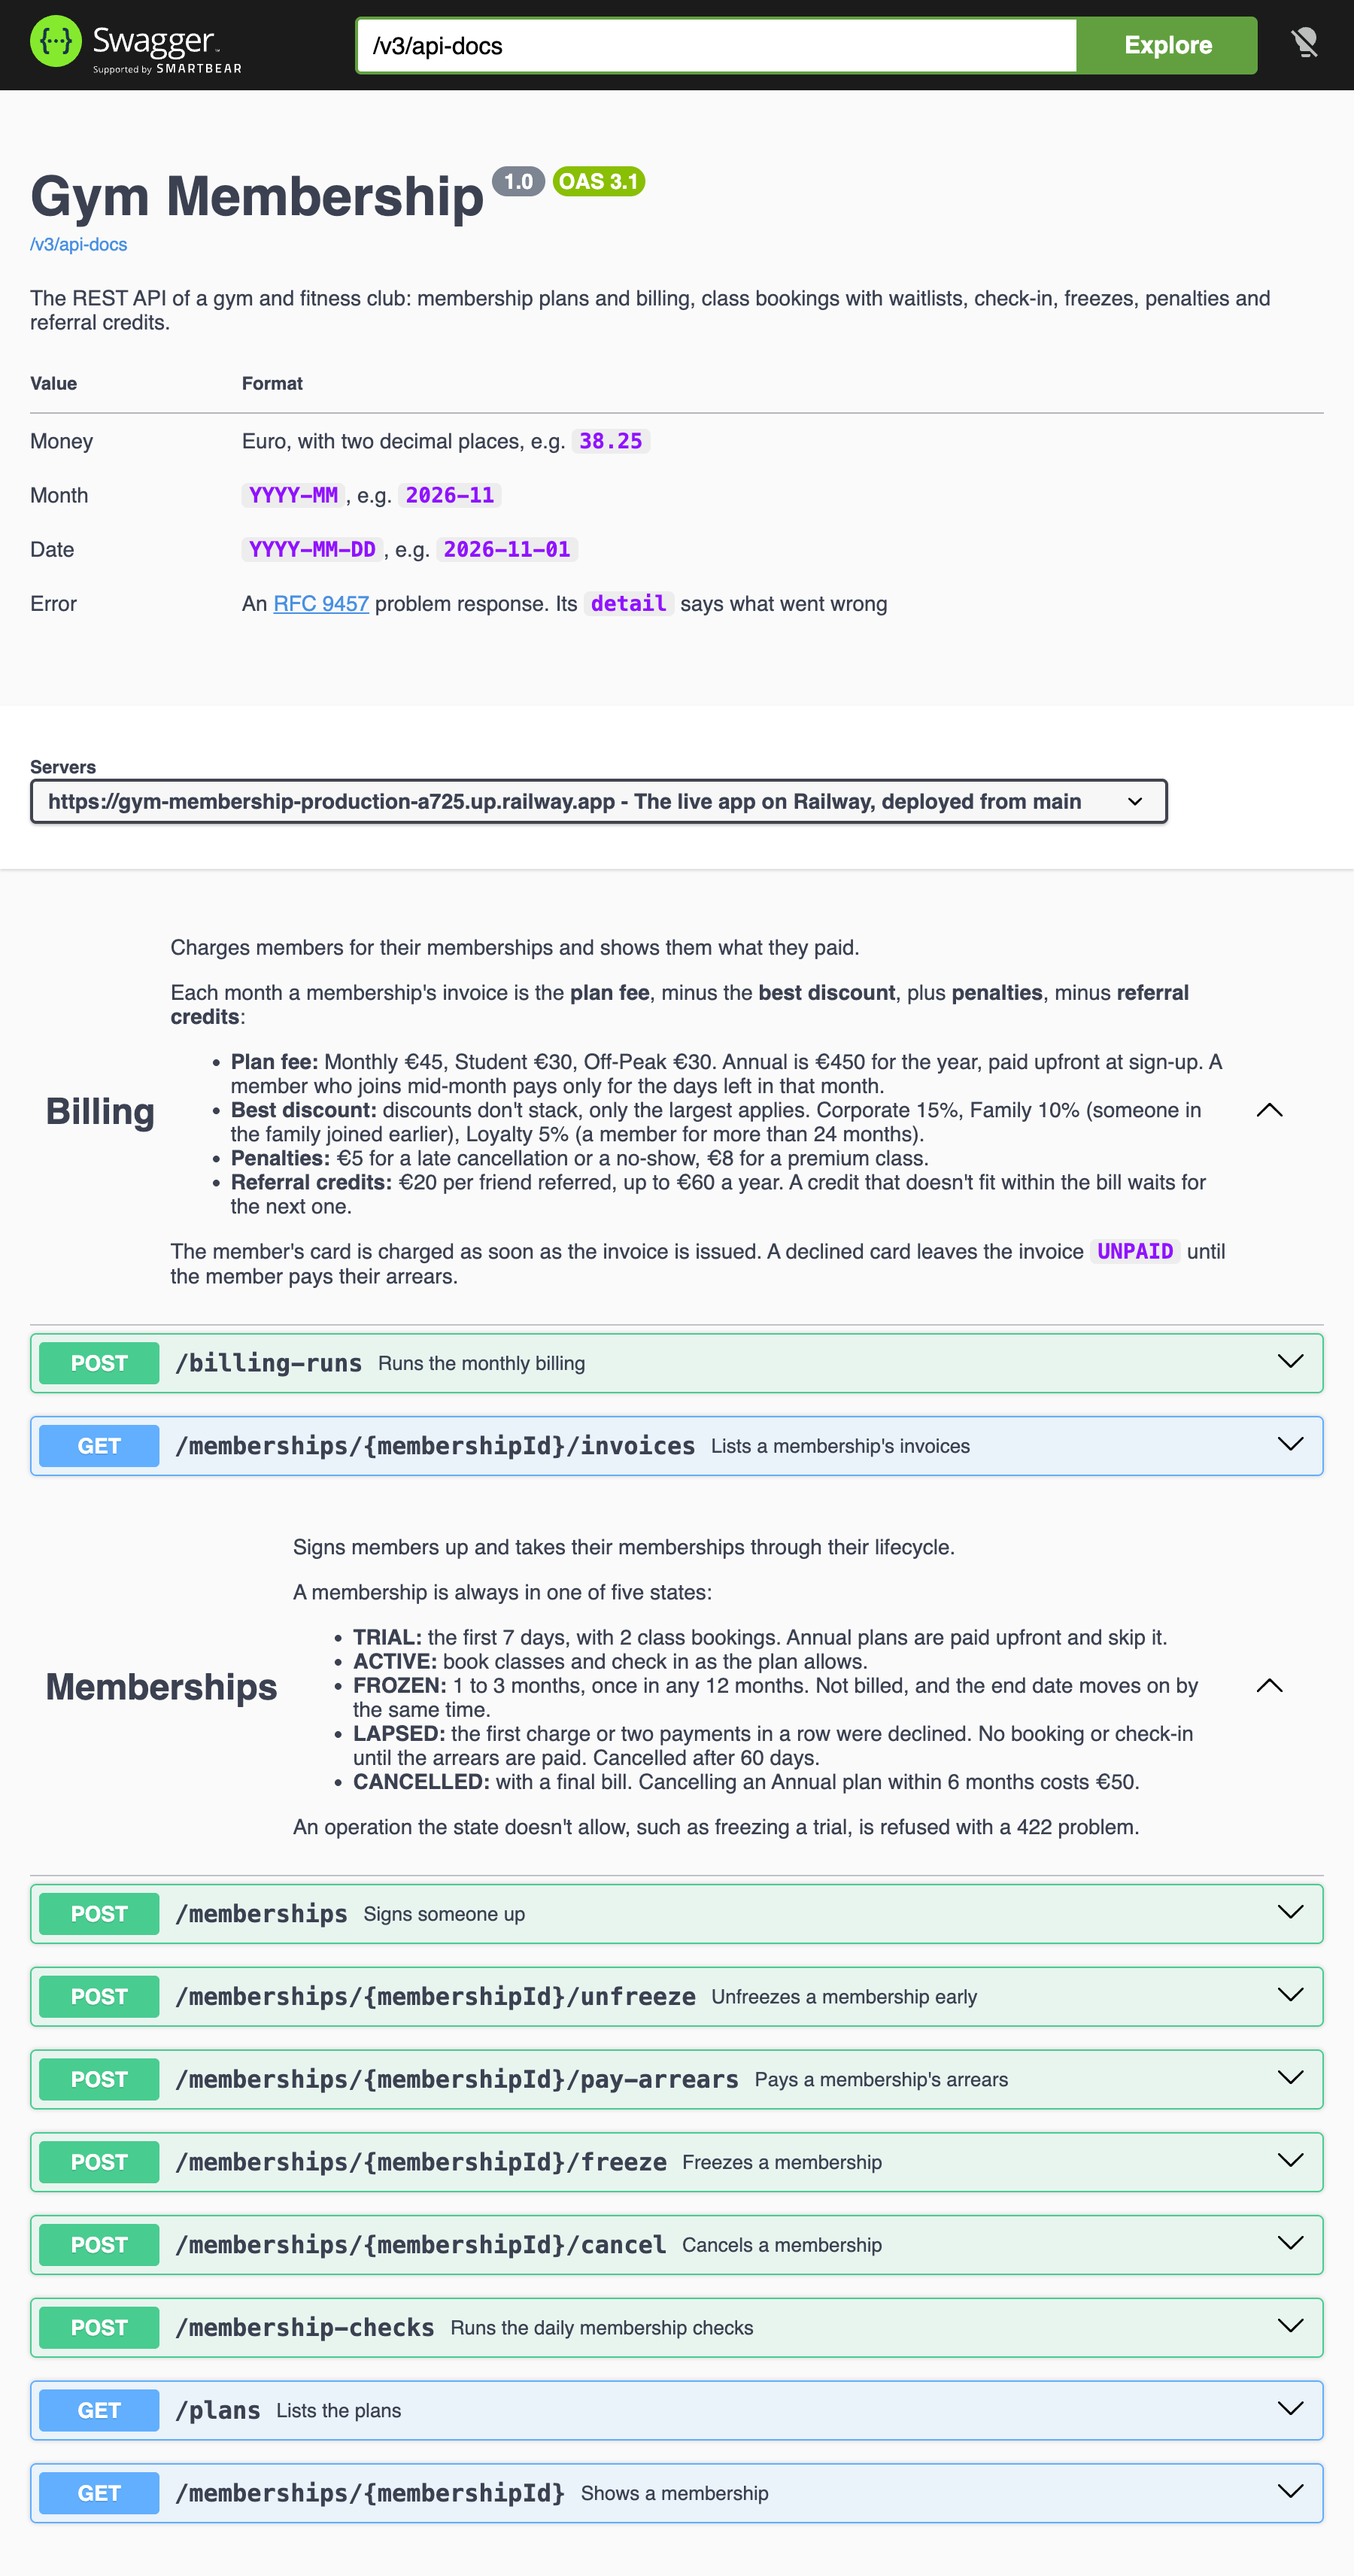
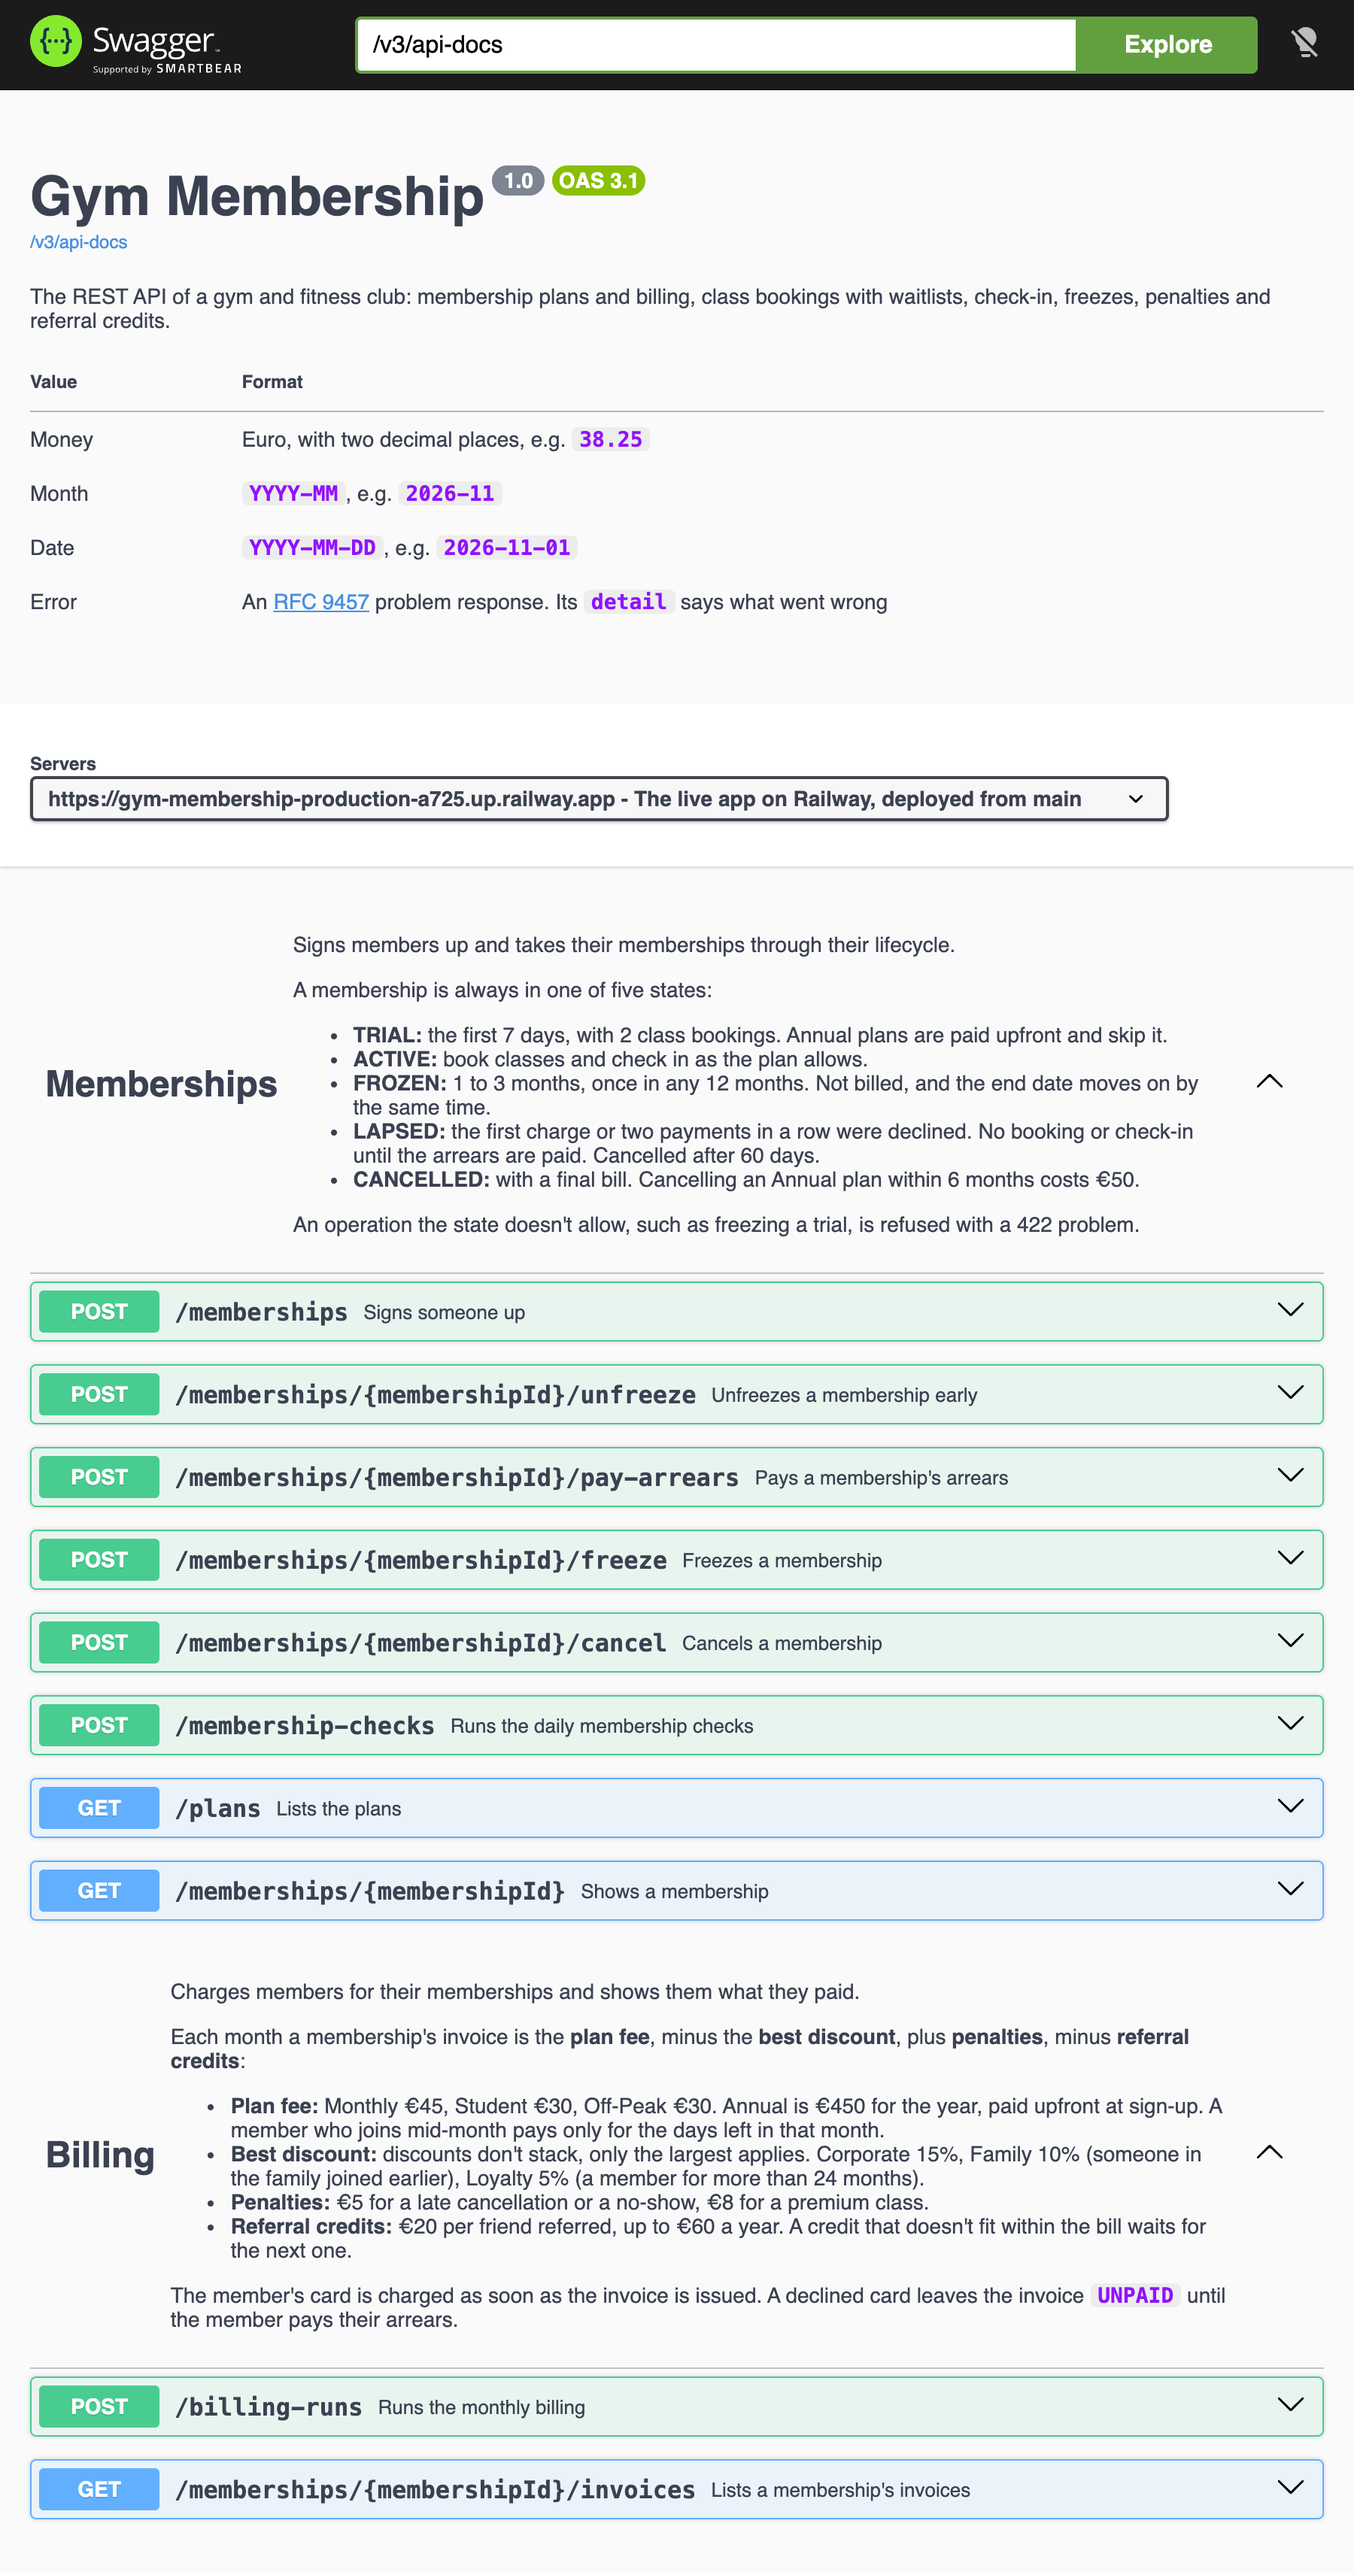
docs(readme): show Memberships in the Postman and Swagger UI screenshots, taken after the folder reorder

diff --git a/code/README.md b/code/README.md
@@ -50,7 +50,7 @@ Postman is our front end. Everything is in the public [Gym Membership workspace]
 
 The app also serves the spec at `/v3/api-docs` and a browsable version, built from the same Javadoc, at its root address. Live, that is https://gym-membership-production-a725.up.railway.app/v3/api-docs and https://gym-membership-production-a725.up.railway.app:
 
-![Swagger UI showing the API overview and the Billing and Memberships endpoints](../report/screenshots/swagger-ui.png)
+![Swagger UI showing the API overview and the Memberships and Billing endpoints](../report/screenshots/swagger-ui.png)
 
 **Documenting an endpoint.** Write Javadoc on the controller method (first sentence is the summary, then the details, `@param` and `@return`), on its controller class (the folder description) and on the request and response records (`@param` for each field). Mark a field that can be `null` with JSpecify's `@Nullable`, so the spec allows it. Give a new controller an `@Order`, which sets where its folder goes in Postman. Declare each error response with `@ApiResponse` on the method, and add a real example response as `src/main/resources/openapi/examples/<method>-<status>.json`. Then regenerate:
 

diff --git a/README.md b/README.md
@@ -10,7 +10,7 @@ A monolithic (package-by-layer MVC + Hexagonal, with Interceptor) business tier 
 
 **Try it, no setup needed:** the app is live at https://gym-membership-production-a725.up.railway.app, which opens its Swagger UI. The public [Postman workspace](https://www.postman.com/spaceflight-geoscientist-47956182/workspace/gym-membership) has every endpoint, documented from the code, and sends to the live app by default. Pick the **mock** environment for Postman's saved examples, or **local** for the app on your machine. See [code/README.md](code/README.md#postman).
 
-![The monthly billing run in Postman: its docs, generated from the Javadoc, above the live response](report/screenshots/postman.png)
+![Signing someone up in the public Postman workspace, with its saved example response](report/screenshots/postman.png)
 
 ## Team
 
